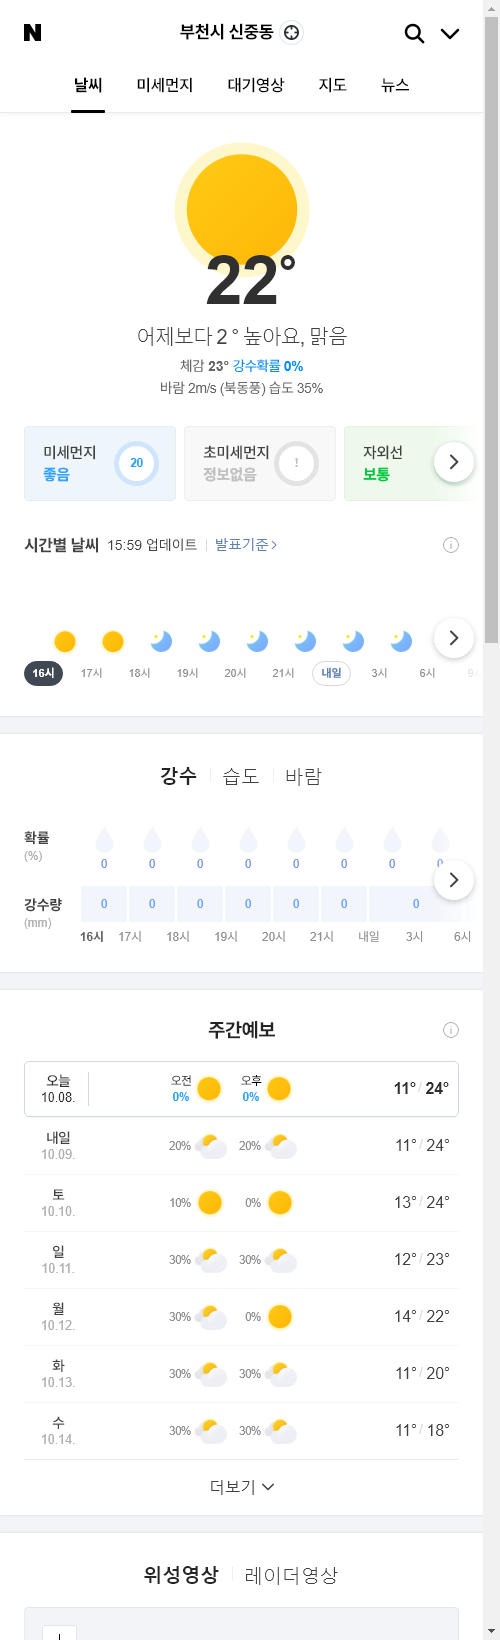
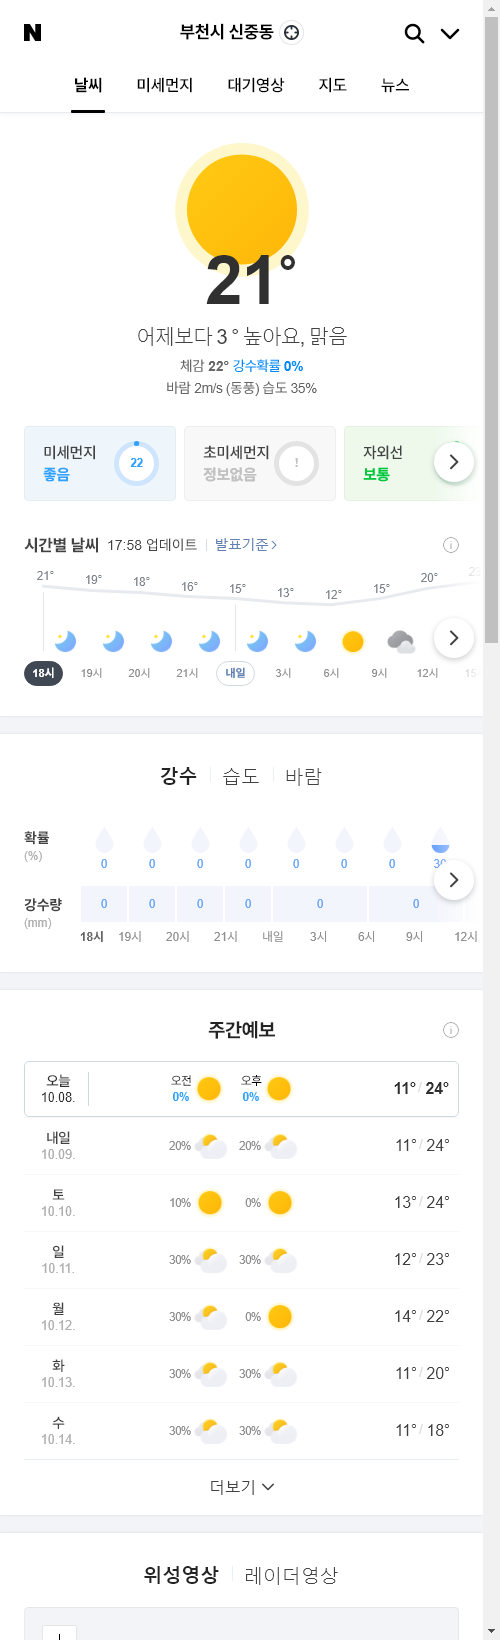
update result

diff --git a/README.md b/README.md
@@ -1,5 +1,5 @@
-##  2020-10-08 16:03:21   목요일 
-##### 날씨   -   어제보다 2 ° 높아요, 맑음
+##  2020-10-08 18:05:52   목요일 
+##### 날씨   -   어제보다 3 ° 높아요, 맑음
 <center><img src="../img/naver_weather_week.png"></center>
 ----
 ----
@@ -17,7 +17,7 @@
 <tr align = "right" > <td>NASDAQ</td><td>11,364.6</td><td>210.0</td><td><font size="3" color="red" >1.88%</font></td><td><font size="3" color="black">0</font></td><td><font size="3" color="black">0</font></td><td>0</td>  </tr>
 <tr align = "right" > <td>S&P</td><td>3,419.45</td><td>58.5</td><td><font size="3" color="red" >1.74%</font></td><td><font size="3" color="black">0</font></td><td><font size="3" color="black">0</font></td><td>0</td>  </tr>
 <tr align = "right" > <td>SHANHAI</td><td>3,218.05</td><td>-6.31</td><td><font size="3" color="blue" >-0.2%</font></td><td><font size="3" color="black">0</font></td><td><font size="3" color="black">0</font></td><td>0</td>  </tr>
-<tr align = "right" > <td>INDIA</td><td>40,413.75</td><td>534.8</td><td><font size="3" color="red" >1.34%</font></td><td><font size="3" color="black">0</font></td><td><font size="3" color="black">0</font></td><td>0</td>  </tr>
+<tr align = "right" > <td>INDIA</td><td>40,279.9</td><td>400.95</td><td><font size="3" color="red" >1.01%</font></td><td><font size="3" color="black">0</font></td><td><font size="3" color="black">0</font></td><td>0</td>  </tr>
 </table>
 ----
 ##### 시장
